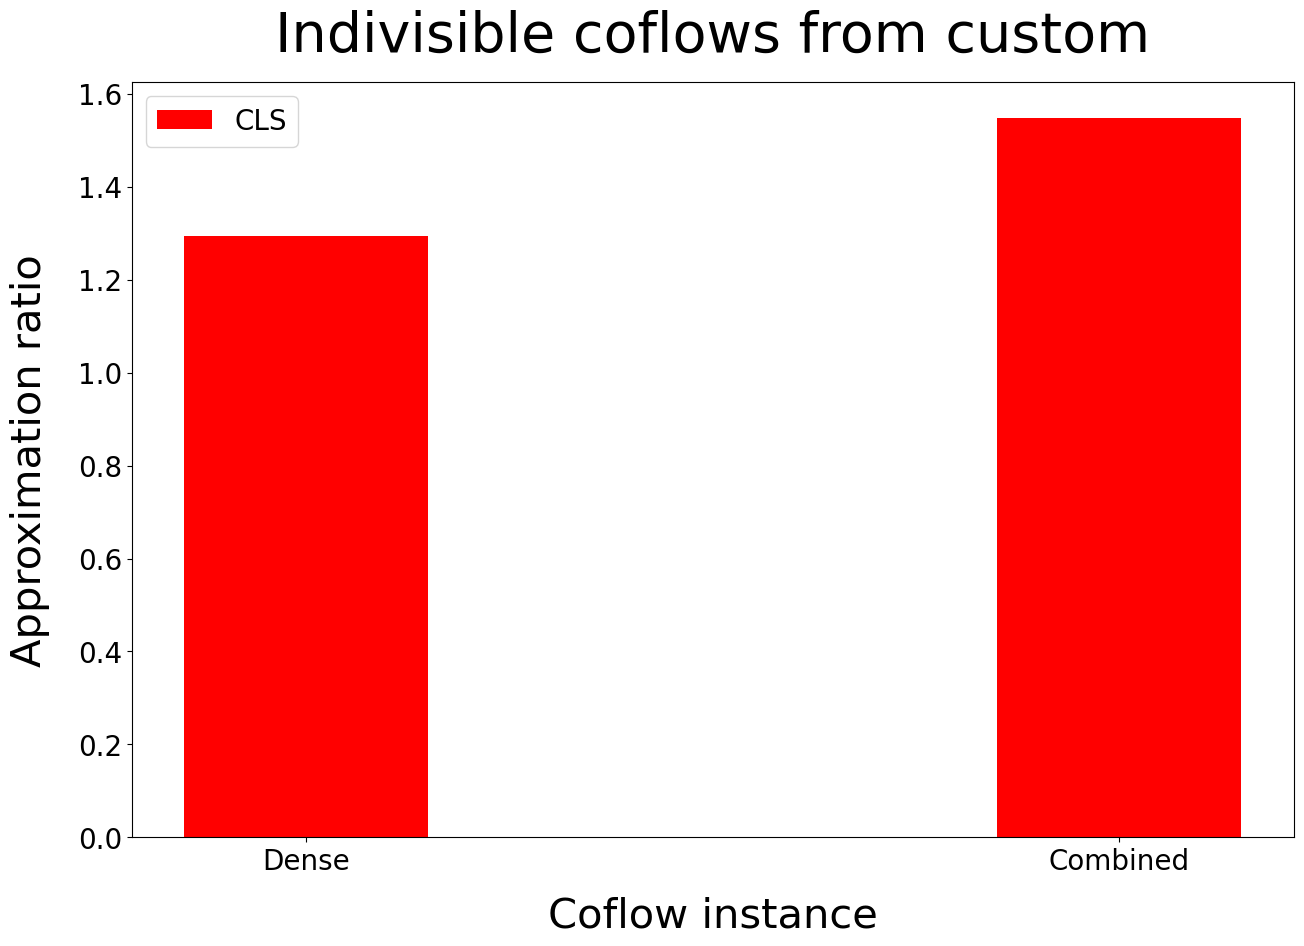
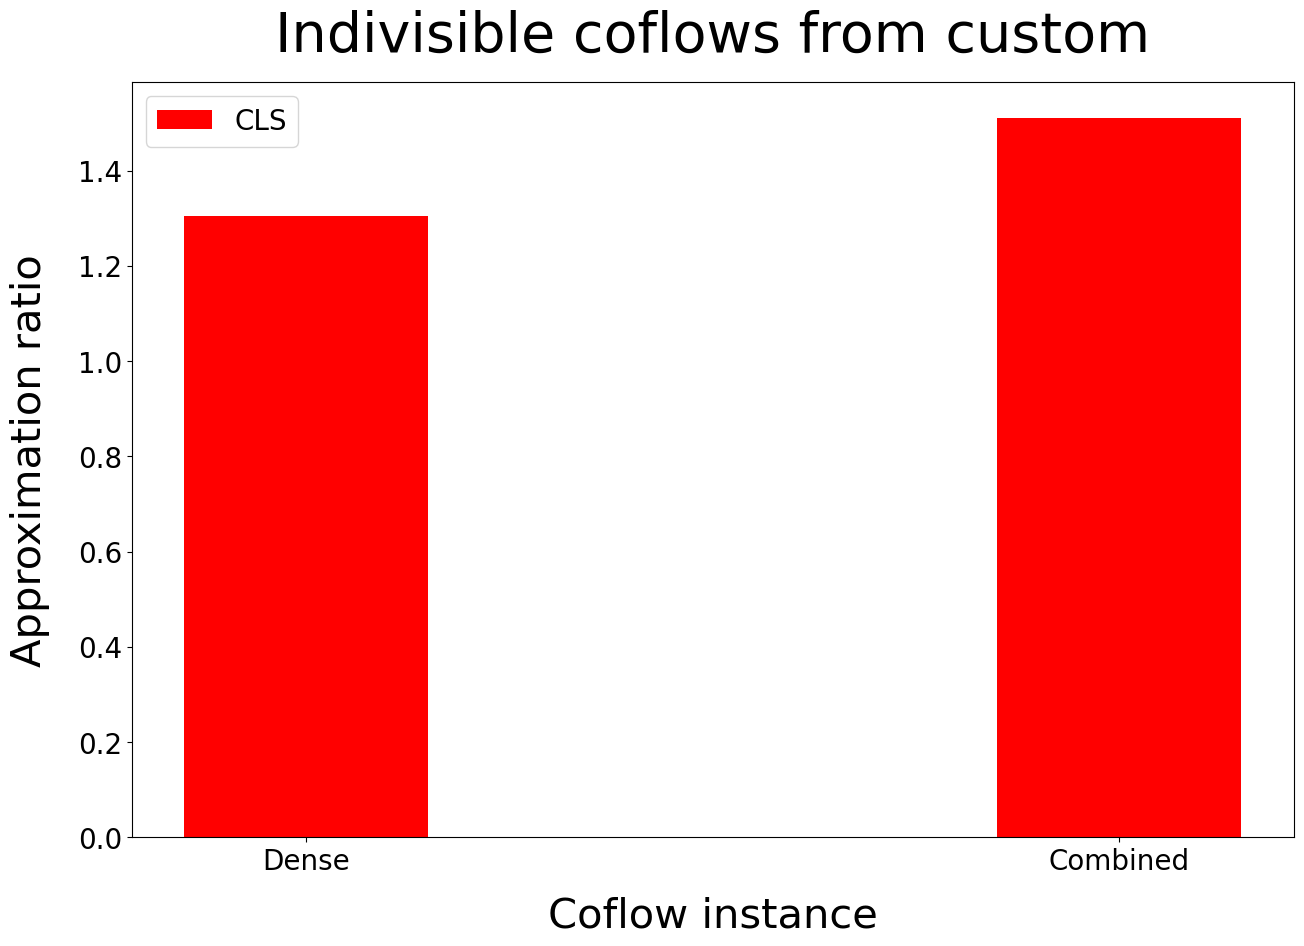
8/22

diff --git a/Experiments/coflowSim/main_custom_indivisible_dense_and_combined.py b/Experiments/coflowSim/main_custom_indivisible_dense_and_combined.py
@@ -123,7 +123,7 @@ CLS.append(average_DenseCLS)
 rawCLS.append(listOfTurnsDenseCLS)
 
 rseed = 13
-turn = 5
+turn = 100
 listOfTurnsCombinedCLS = []
 average_CombinedCLS = 0
 
